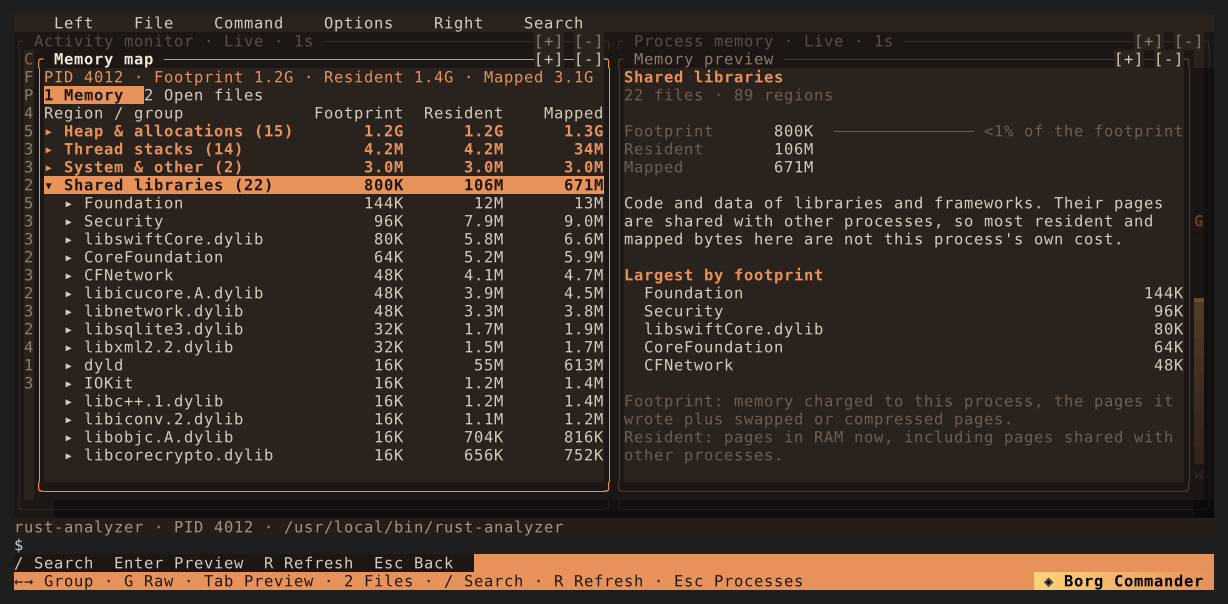
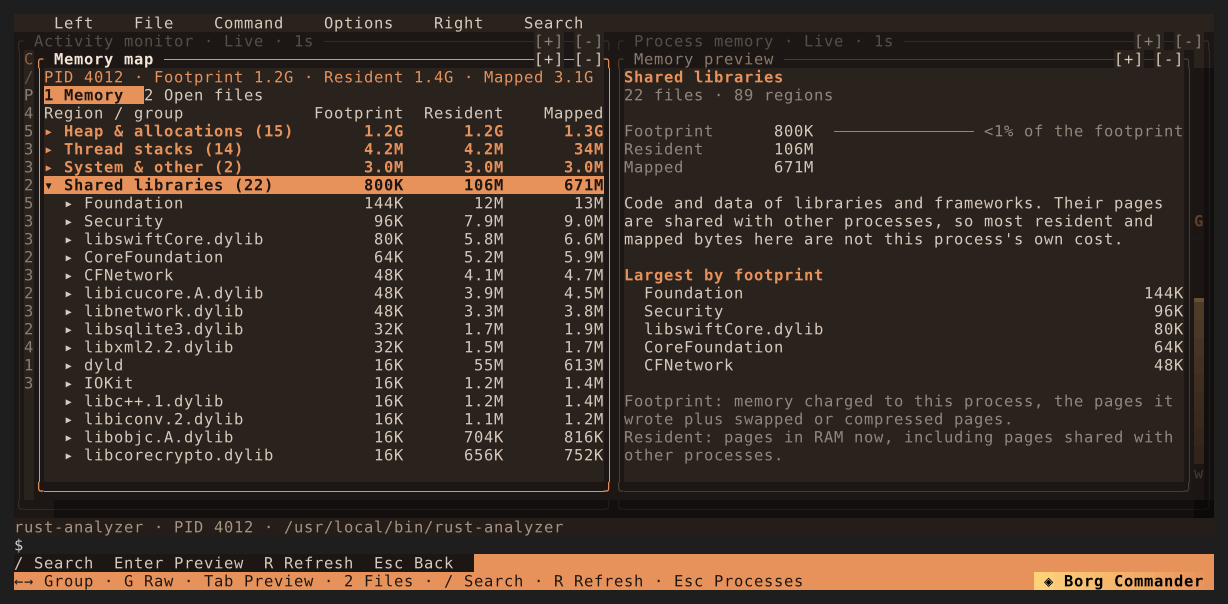
README: show the glitch screensaver
The showcase renders the glitch screensaver as an animated GIF from the
real drawing code; Recorder::take lets it record frames without a PTY
session. The activity and memory-map screenshots are refreshed for the
current filter row.

diff --git a/crates/borg-testkit/examples/showcase.rs b/crates/borg-testkit/examples/showcase.rs
@@ -1,5 +1,6 @@
-//! Renders the README showcase of folder sizes and the activity monitor from fictional
-//! folders and processes, so no screenshot shows the machine it was made on.
+//! Renders the README showcase of folder sizes, the activity monitor, and the glitch
+//! screensaver from fictional folders and processes, so no screenshot shows the machine it
+//! was made on.
 
 use std::{
     env,
@@ -12,10 +13,10 @@ use std::{
 use anyhow::{Result, ensure};
 use borg_core::{
     ActivityData, ActivityRequest, MemoryRegion, Motion, Msg, Preferences, ProcessInfo, ProcessKey, ResultSource,
-    SearchKind, SearchOptions, SearchProgress, SearchRequest, Settings, Sort, SortKey, SystemSample,
+    Saver, SearchKind, SearchOptions, SearchProgress, SearchRequest, Settings, Sort, SortKey, SystemSample,
 };
 use borg_term::GridSize;
-use borg_testkit::{Snapshot, Stage};
+use borg_testkit::{Recorder, Snapshot, Stage};
 use borg_vfs::{Entry, EntryKind, FolderUsage};
 use crossterm::event::{KeyCode, KeyEvent, KeyModifiers};
 
@@ -35,6 +36,11 @@ const GIB: u64 = MIB * 1024;
 const PAGE: u64 = 16 * KIB;
 const SELECTED: u32 = 4012;
 const EXECUTABLE: &str = "/usr/local/bin/rust-analyzer";
+const GLITCH_SIZE: GridSize = GridSize { cols: 76, rows: 17 };
+const GLITCH_THEME: &str = "neon";
+const GLITCH_FPS: f64 = 24.0;
+const GLITCH_LENGTH: Duration = Duration::from_secs(8);
+const GLITCH_TAIL: Duration = Duration::from_millis(500);
 
 fn at(secs: u64) -> Option<std::time::SystemTime> {
     Some(UNIX_EPOCH + Duration::from_secs(secs))
@@ -478,10 +484,32 @@ fn activity(output: &Path) -> Result<()> {
     save(&mut stage, output, "memory-map")
 }
 
+/// The glitch screensaver as an animated GIF: the logo drifts on a scanlined screen and
+/// tears apart in bursts.
+fn glitch(output: &Path) -> Result<()> {
+    let settings = Settings { motion: Motion::LOCAL, ..Settings::default() };
+    let mut stage =
+        Stage::new([HOME.into(), HOME.into()], [Vec::new(), Vec::new()], GLITCH_SIZE, settings, CLOCK.parse()?)?;
+    theme(&mut stage, GLITCH_THEME);
+    stage.state.screensaver = true;
+    stage.state.saver = Saver::Glitch;
+    let mut recorder = Recorder::new(Duration::ZERO);
+    let frames = (GLITCH_LENGTH.as_secs_f64() * GLITCH_FPS) as u32;
+    for frame in 0..frames {
+        let at = stage.started + Duration::from_secs_f64(f64::from(frame) / GLITCH_FPS);
+        recorder.take(Snapshot::from_buffer(stage.render(at)?, &stage.palette, None), at);
+    }
+    let path = output.join("glitch.gif");
+    recorder.save_gif(&path, GLITCH_TAIL)?;
+    println!("wrote {} ({} frames)", path.display(), recorder.frames());
+    Ok(())
+}
+
 fn main() -> Result<()> {
     let output = PathBuf::from(env::args().nth(1).unwrap_or_else(|| "docs/showcase".into()));
     fs::create_dir_all(&output)?;
     size_tree(&output)?;
     folder_totals(&output)?;
-    activity(&output)
+    activity(&output)?;
+    glitch(&output)
 }

diff --git a/crates/borg-testkit/src/recorder.rs b/crates/borg-testkit/src/recorder.rs
@@ -30,13 +30,18 @@ impl Recorder {
         let end = Instant::now() + duration;
         while Instant::now() < end {
             session.pump(self.interval)?;
-            let snapshot = session.snapshot();
-            let repeated = self.takes.last().is_some_and(|(last, _)| last.same_screen(&snapshot));
-            if !repeated {
-                self.takes.push((snapshot, Instant::now()));
-            }
+            self.take(session.snapshot(), Instant::now());
         }
         Ok(())
+    }
+
+    /// Adds a frame shown from `at`, for screens rendered without a session. A frame that
+    /// repeats the previous screen only extends it.
+    pub fn take(&mut self, snapshot: Snapshot, at: Instant) {
+        let repeated = self.takes.last().is_some_and(|(last, _)| last.same_screen(&snapshot));
+        if !repeated {
+            self.takes.push((snapshot, at));
+        }
     }
 
     pub fn snapshots(&self) -> impl Iterator<Item = &Snapshot> {

diff --git a/README.md b/README.md
@@ -93,6 +93,15 @@ Six built-in themes, from Classic blue to Paper. Pick one from the menu or make 
 Every download includes **Borg Mono**, a font with file icons. Ghostty uses rich icons
 automatically; other terminals start with portable symbols. [Font setup](fonts/README.md).
 
+## Resistance is futile
+
+On a local true-colour terminal, Borg starts with a burst of glitch. When you step away, it shows a
+spinning cube or this glitching logo, picked at random. Any key brings the panels back.
+
+<p align="center">
+  <img src="docs/showcase/glitch.gif" alt="The glitch screensaver: the BORG logo drifts on a scanlined screen, then tears apart in bursts of split colour, smeared rows, and corrupted glyphs" width="760">
+</p>
+
 ## Install
 
 Download a binary for **macOS** (Apple Silicon or Intel) or **Linux** (ARM64 or x86-64)

diff --git a/DEVELOPMENT.md b/DEVELOPMENT.md
@@ -266,13 +266,13 @@ an artifact.
 
 ### README screenshots
 
-The theme gallery and the size and activity showcase are rendered from fictional folders
-and processes, so they never show the machine they were made on:
+The theme gallery and the size, activity, and screensaver showcase are rendered from
+fictional folders and processes, so they never show the machine they were made on:
 
 ```sh
 export BORG_SCREENSHOT_FONT=fonts/BorgMono-Regular.ttf BORG_SCREENSHOT_FONT_BOLD=fonts/BorgMono-Bold.ttf
 cargo run -p borg-testkit --example themes      # writes docs/themes/*.png
-cargo run -p borg-testkit --example showcase    # writes docs/showcase/*.png
+cargo run -p borg-testkit --example showcase    # writes docs/showcase/*.png and glitch.gif
 ```
 
 ### The demo
